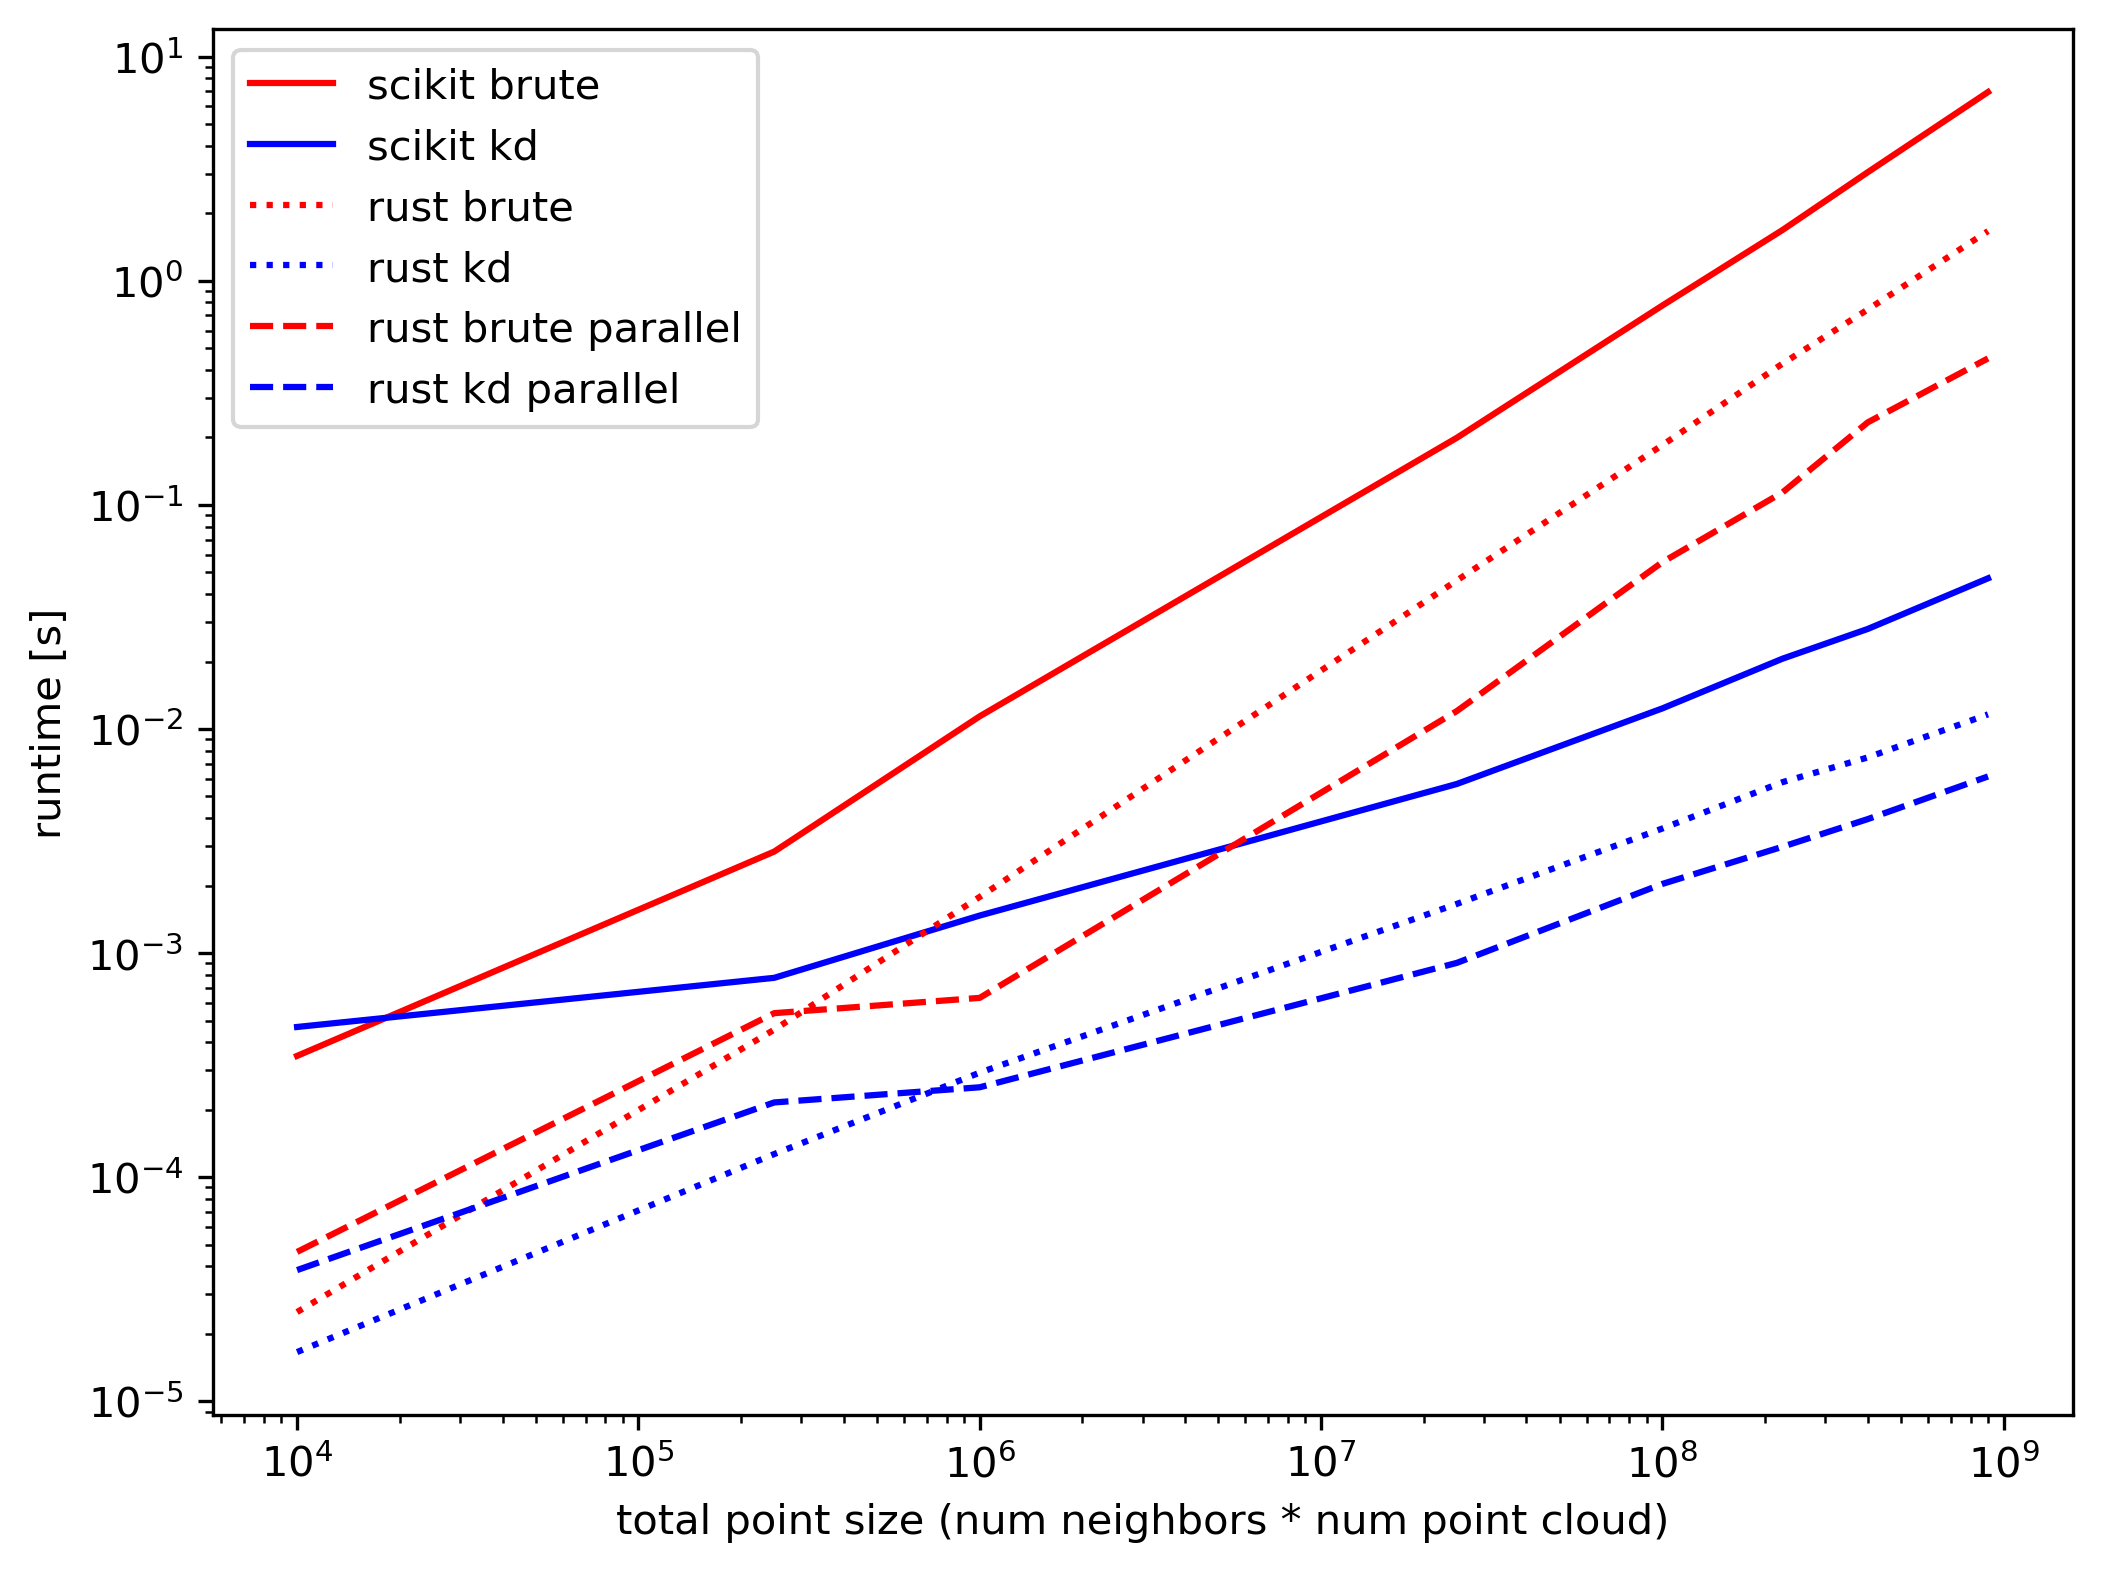
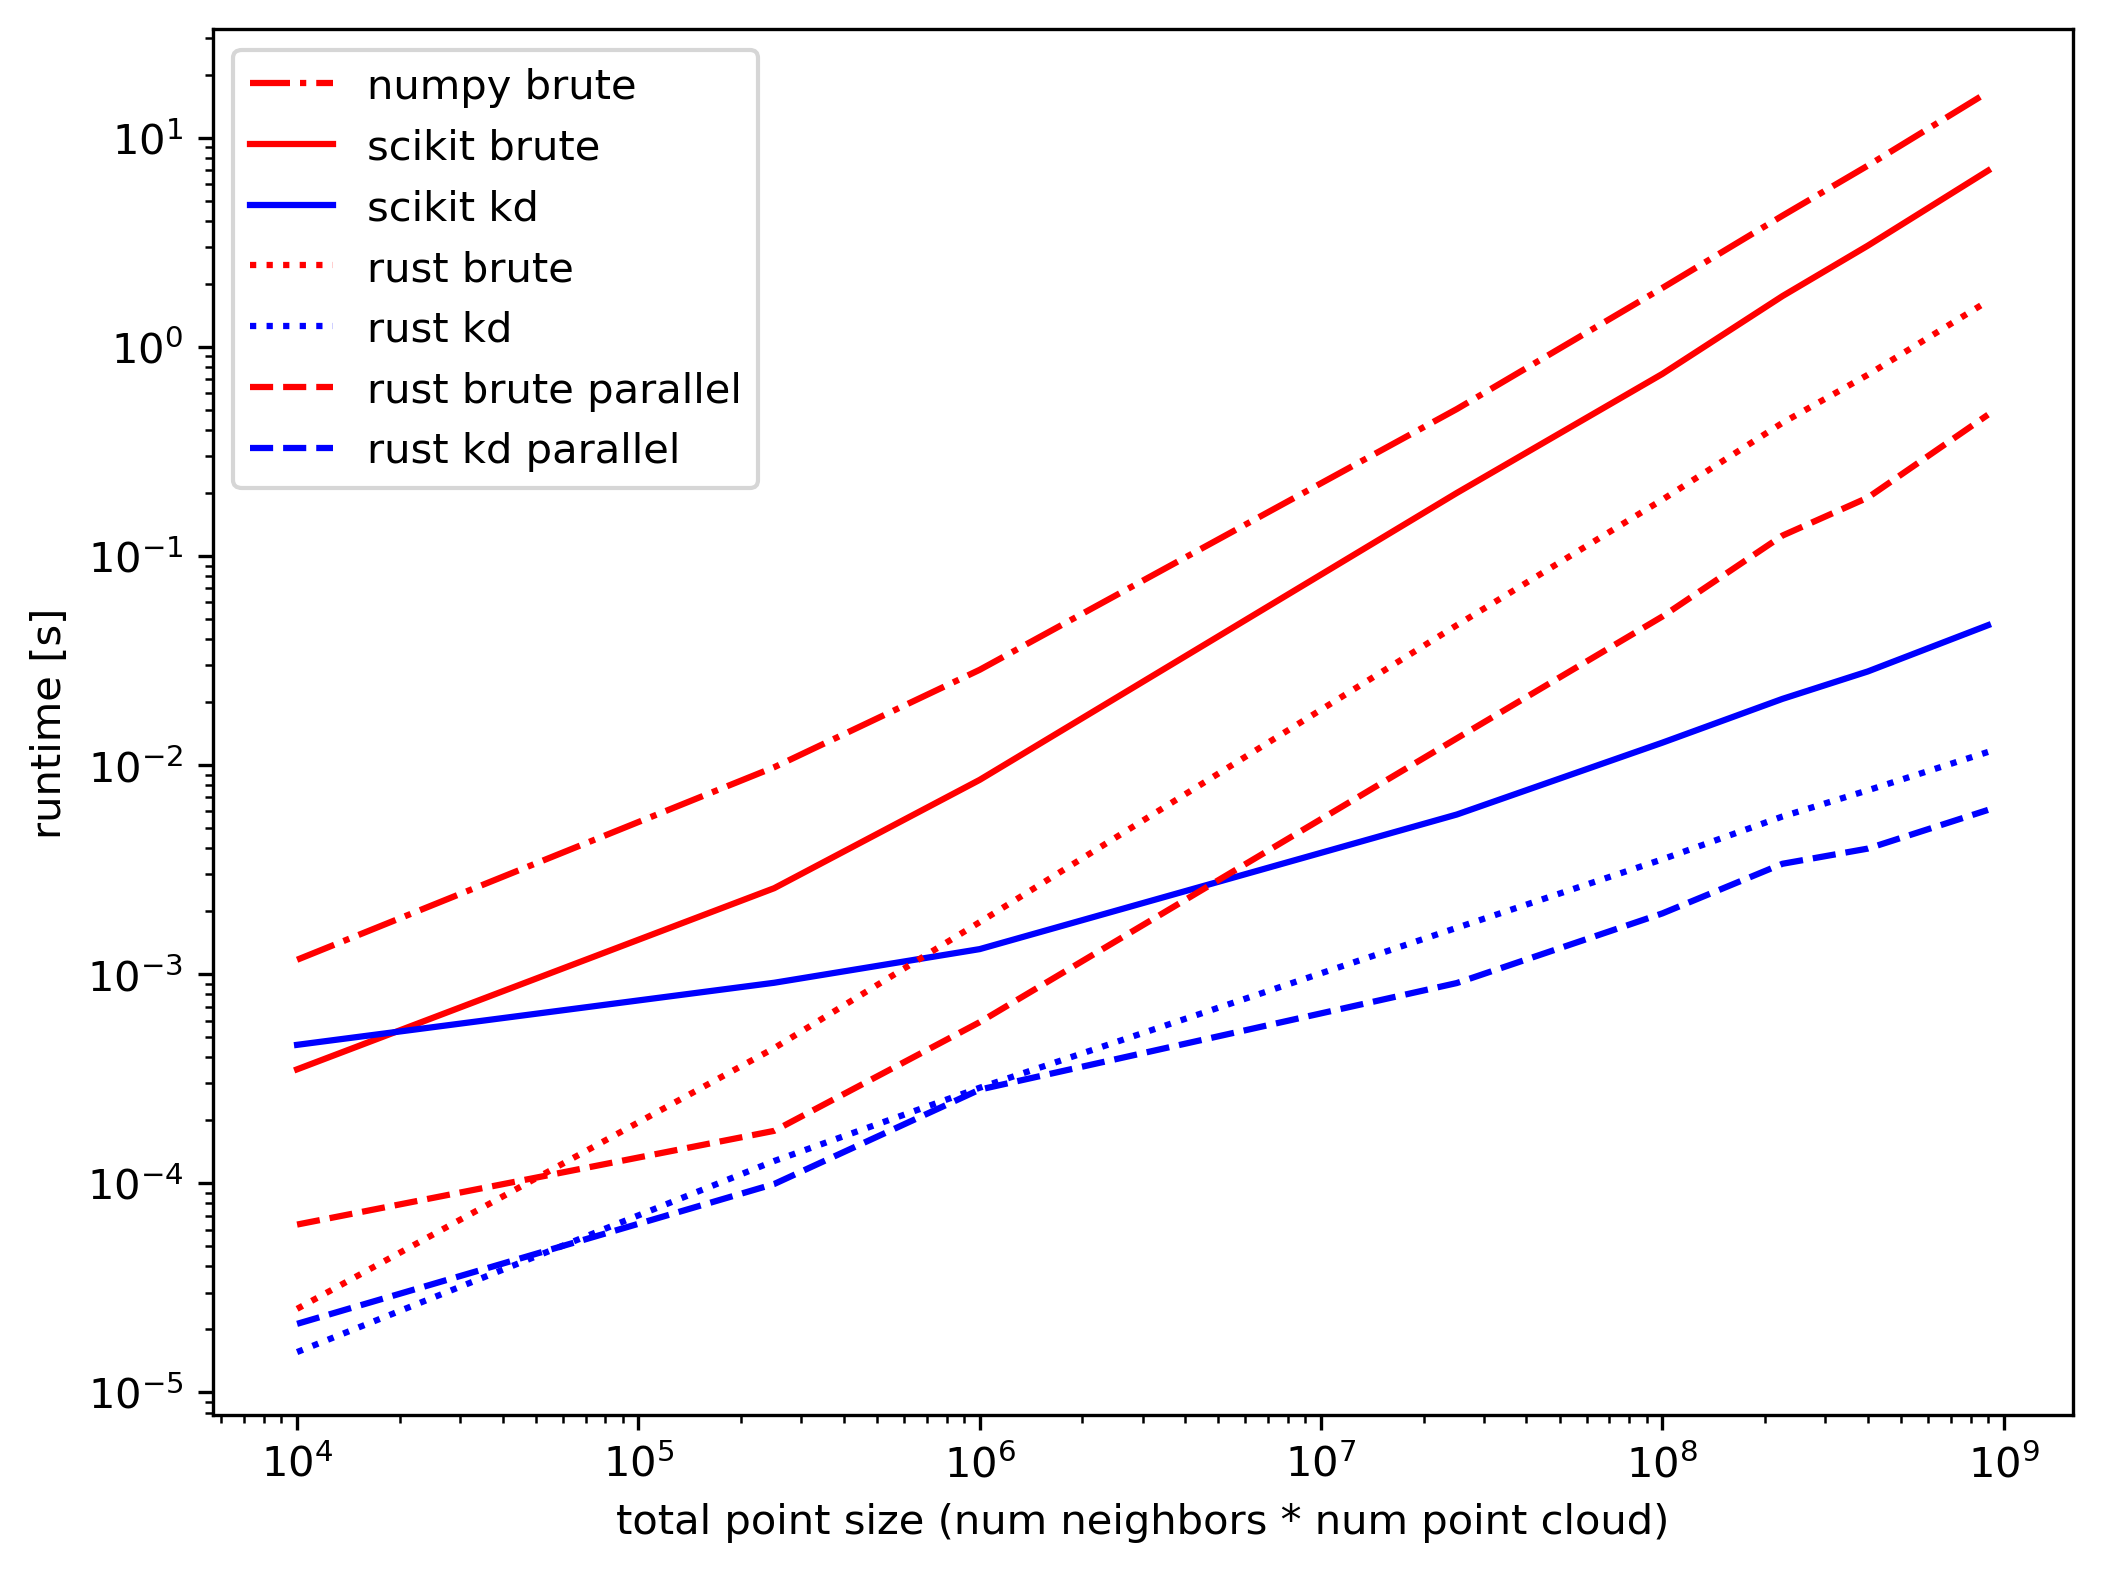
numpy brute force benchmark

diff --git a/scripts/plots.py b/scripts/plots.py
@@ -12,6 +12,18 @@ def create_data(line_ct: int, point_ct: int) -> Tuple[np.ndarray, np.ndarray]:
 
     return line_pts, cloud_pts 
 
+def bench_numpy_brute(lines: np.ndarray, cloud: np.ndarray):
+    out_array = np.zeros(cloud.shape[0])
+
+    for row in range(cloud.shape[0]):
+        diff = lines - cloud[row, :]
+        mag = np.linalg.norm(diff, axis=1)
+
+        min_distance = np.argmin(mag)
+        out_array[row] = min_distance
+
+    return out_array
+
 def bench_scikit(lines: np.ndarray, cloud: np.ndarray, algorithm: str):
     nbrs = NearestNeighbors(n_neighbors=1, algorithm=algorithm).fit(lines)
     distances, indices = nbrs.kneighbors(cloud)
@@ -48,67 +60,77 @@ def bench_helper(fn, output_list: list[float]):
     output_list.append(out_mean)
 
 
-line_sizes = [100, 500, 1000, 5_000, 10_000, 15_000, 20_000, 30_000]
-cloud_sizes = line_sizes.copy()
+def bench_all():
+    line_sizes = [100, 500, 1000, 5_000, 10_000, 15_000, 20_000, 30_000]
+    #line_sizes = [100, 500, 1000]
+    cloud_sizes = line_sizes.copy()
 
-scikit_brute = []
-scikit_kd = []
-rust_brute = []
-rust_kd = []
-rust_brute_par = []
-rust_kd_par = []
+    numpy_brute= []
+    scikit_brute = []
+    scikit_kd = []
+    rust_brute = []
+    rust_kd = []
+    rust_brute_par = []
+    rust_kd_par = []
 
-xs = []
+    xs = []
 
-for (line_size, cloud_size) in zip(line_sizes, cloud_sizes):
-    lines, clouds = create_data(line_size, cloud_size)
+    for (line_size, cloud_size) in zip(line_sizes, cloud_sizes):
+        lines, clouds = create_data(line_size, cloud_size)
 
-    xs.append(line_size * cloud_size)
+        xs.append(line_size * cloud_size)
 
-    # scikit brute
-    l = lambda : bench_scikit(lines, clouds, "brute")
-    bench_helper(l, scikit_brute)
+        # numpy brute
+        l = lambda : bench_numpy_brute(lines, clouds)
+        bench_helper(l, numpy_brute)
 
-    # scikit kd
-    l = lambda : bench_scikit(lines, clouds, "kd_tree")
-    bench_helper(l, scikit_kd)
+        # scikit brute
+        l = lambda : bench_scikit(lines, clouds, "brute")
+        bench_helper(l, scikit_brute)
 
-    # rust brute serial
-    l = lambda : bench_rust_brute(lines, clouds, False)
-    bench_helper(l, rust_brute)
+        # scikit kd
+        l = lambda : bench_scikit(lines, clouds, "kd_tree")
+        bench_helper(l, scikit_kd)
 
-    # rust kd serial
-    l = lambda : bench_rust_kd(lines, clouds, False)
-    bench_helper(l, rust_kd)
+        # rust brute serial
+        l = lambda : bench_rust_brute(lines, clouds, False)
+        bench_helper(l, rust_brute)
 
-    # rust brute parallel
-    l = lambda : bench_rust_brute(lines, clouds, True)
-    bench_helper(l, rust_brute_par)
+        # rust kd serial
+        l = lambda : bench_rust_kd(lines, clouds, False)
+        bench_helper(l, rust_kd)
 
-    # rust kd parallel
-    l = lambda : bench_rust_kd(lines, clouds, True)
-    bench_helper(l, rust_kd_par)
+        # rust brute parallel
+        l = lambda : bench_rust_brute(lines, clouds, True)
+        bench_helper(l, rust_brute_par)
 
-    print(f"finished size {line_size} | {cloud_size}")
+        # rust kd parallel
+        l = lambda : bench_rust_kd(lines, clouds, True)
+        bench_helper(l, rust_kd_par)
 
-
-
-fig = plt.figure(figsize = (8, 6), dpi=300)
-ax = fig.add_subplot(1, 1, 1)
-ax.set_xlabel("total point size (num neighbors * num point cloud)")
-ax.set_ylabel("runtime [s]")
-
-ax.set_yscale('log')
-ax.set_xscale('log')
+        print(f"finished size {line_size} | {cloud_size}")
 
 
-ax.plot(xs, scikit_brute, label = "scikit brute", color = "red")
-ax.plot(xs, scikit_kd, label = "scikit kd", color = "blue")
-ax.plot(xs, rust_brute, label = "rust brute", color = "red", linestyle="dotted")
-ax.plot(xs, rust_kd, label = "rust kd", color = "blue", linestyle="dotted")
-ax.plot(xs, rust_brute_par, label = "rust brute parallel", color = "red", linestyle = "dashed")
-ax.plot(xs, rust_kd_par, label = "rust kd parallel", color = "blue", linestyle = "dashed")
 
-plt.legend()
+    fig = plt.figure(figsize = (8, 6), dpi=300)
+    ax = fig.add_subplot(1, 1, 1)
+    ax.set_xlabel("total point size (num neighbors * num point cloud)")
+    ax.set_ylabel("runtime [s]")
 
-plt.savefig("./static/benchmarks.png", bbox_inches="tight")
+    ax.set_yscale('log')
+    ax.set_xscale('log')
+
+    ax.plot(xs, numpy_brute, label = "numpy brute", color = "red", linestyle = "dashdot")
+    ax.plot(xs, scikit_brute, label = "scikit brute", color = "red")
+    ax.plot(xs, scikit_kd, label = "scikit kd", color = "blue")
+    ax.plot(xs, rust_brute, label = "rust brute", color = "red", linestyle="dotted")
+    ax.plot(xs, rust_kd, label = "rust kd", color = "blue", linestyle="dotted")
+    ax.plot(xs, rust_brute_par, label = "rust brute parallel", color = "red", linestyle = "dashed")
+    ax.plot(xs, rust_kd_par, label = "rust kd parallel", color = "blue", linestyle = "dashed")
+
+    plt.legend()
+
+    plt.savefig("./static/benchmarks.png", bbox_inches="tight")
+
+
+bench_all()
